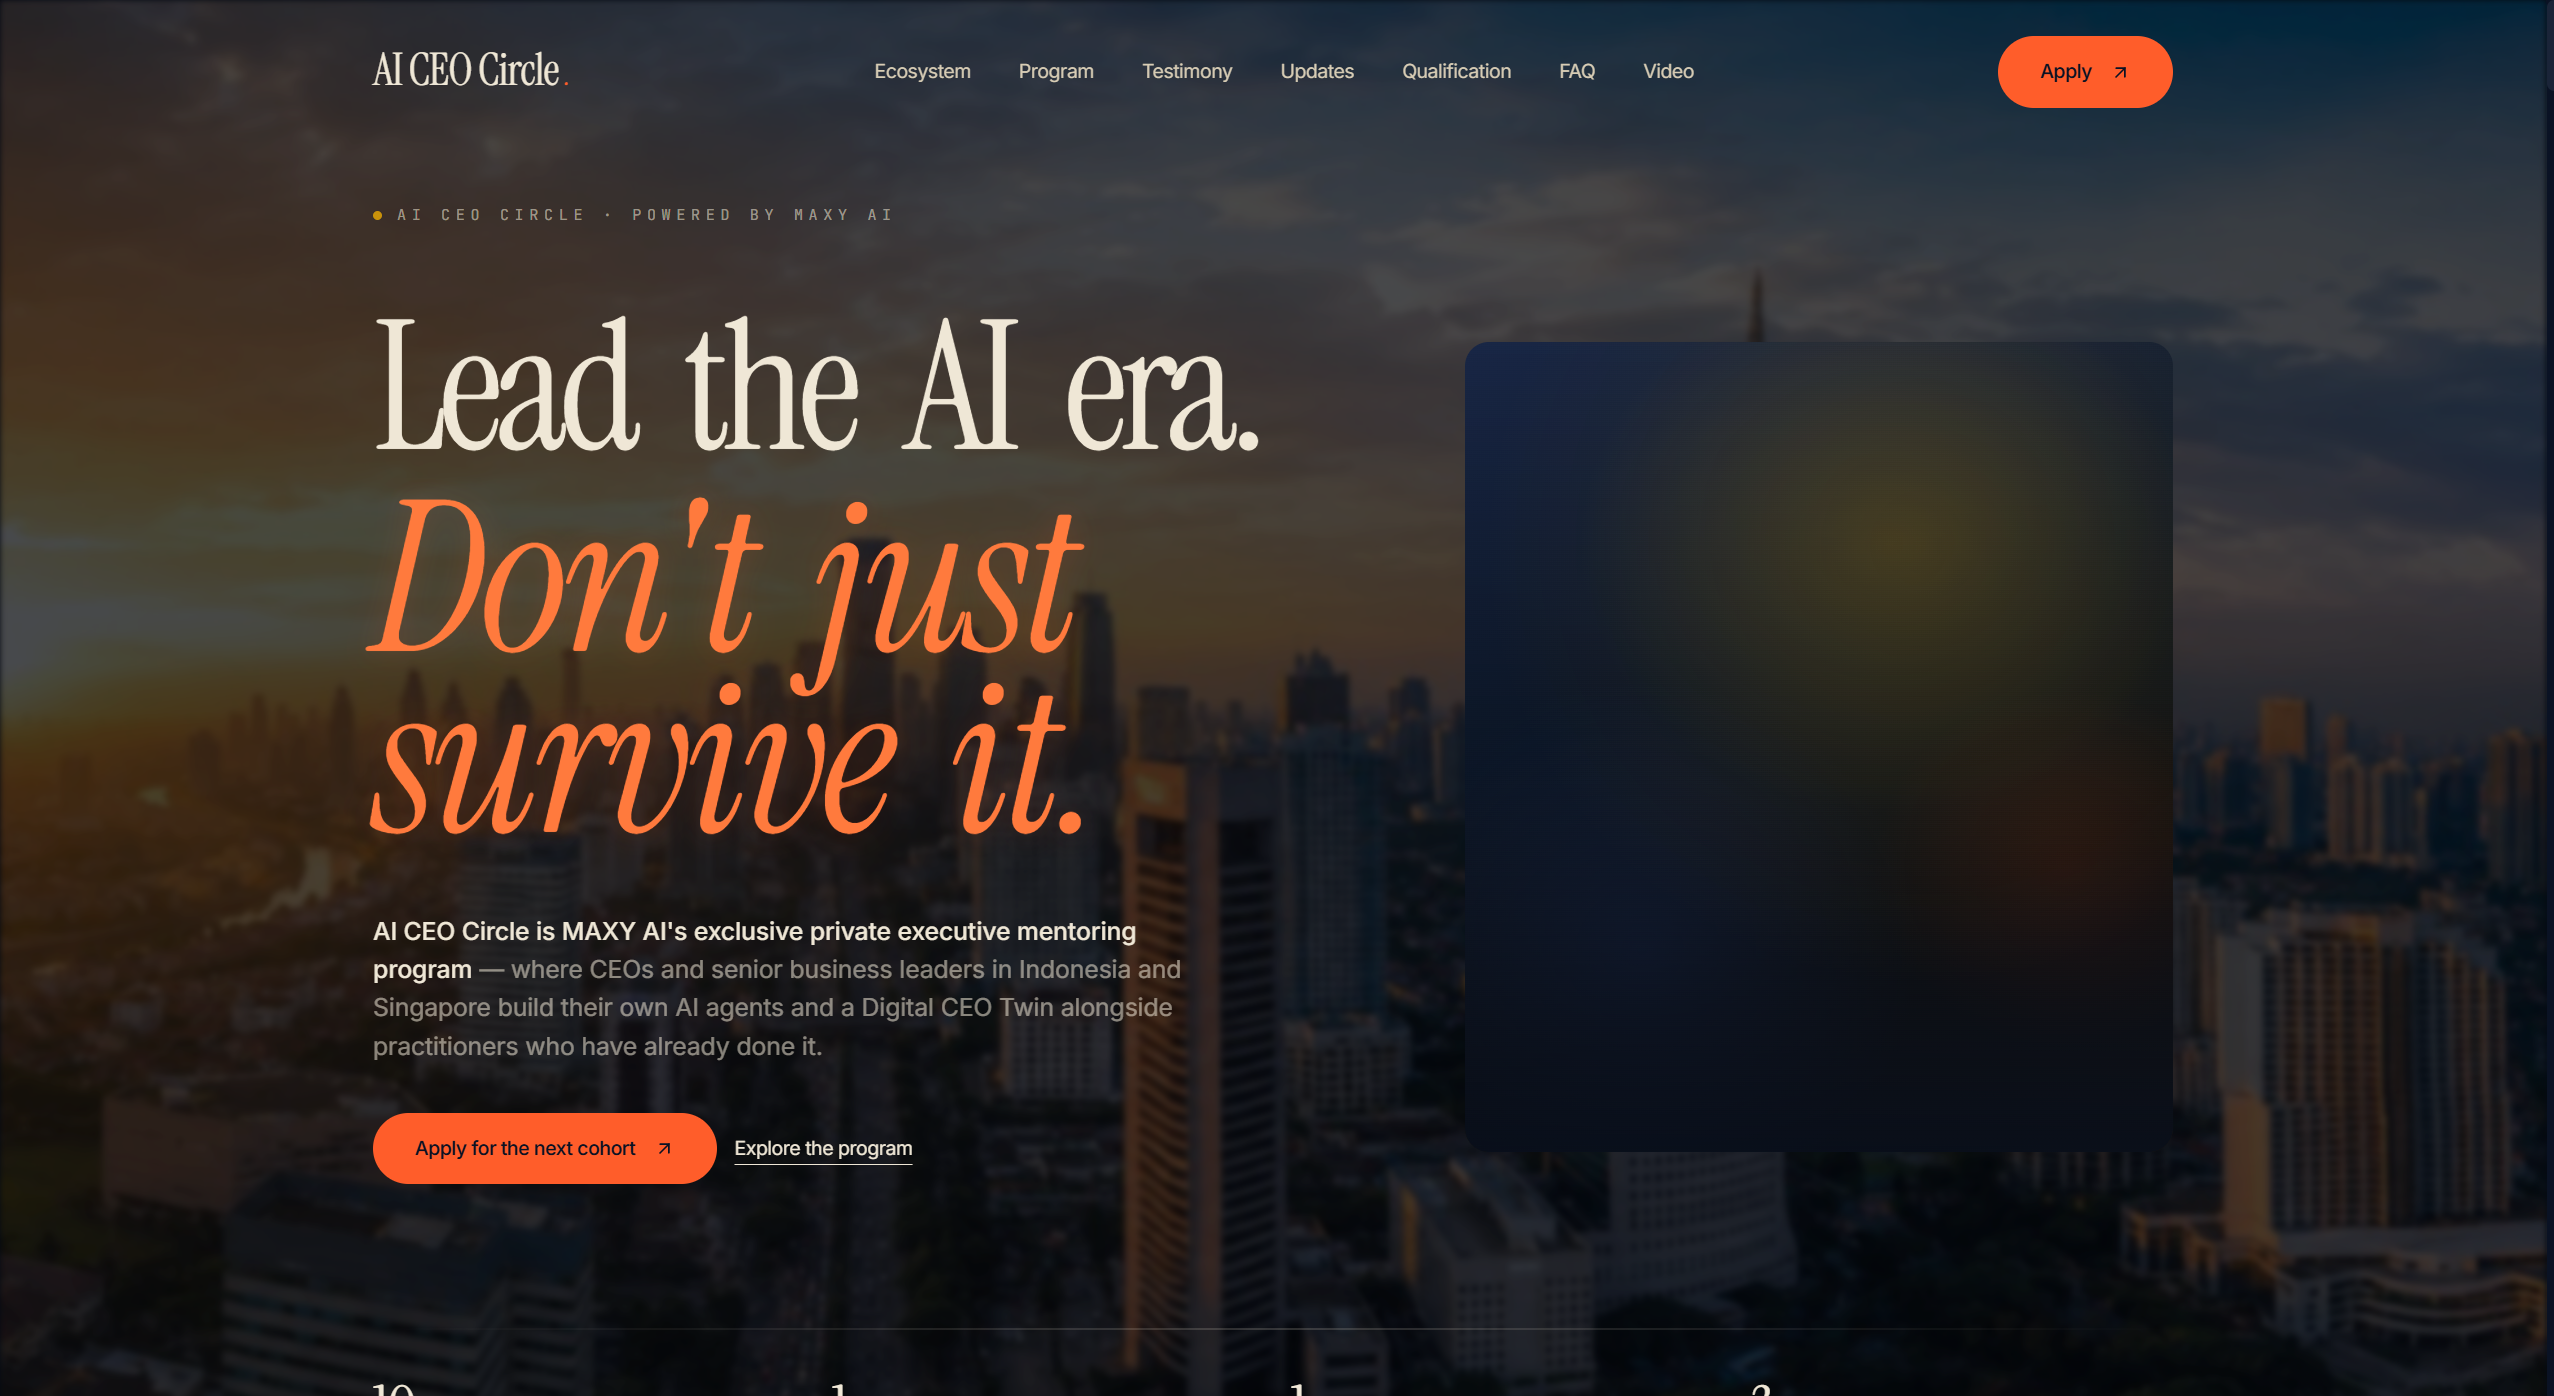
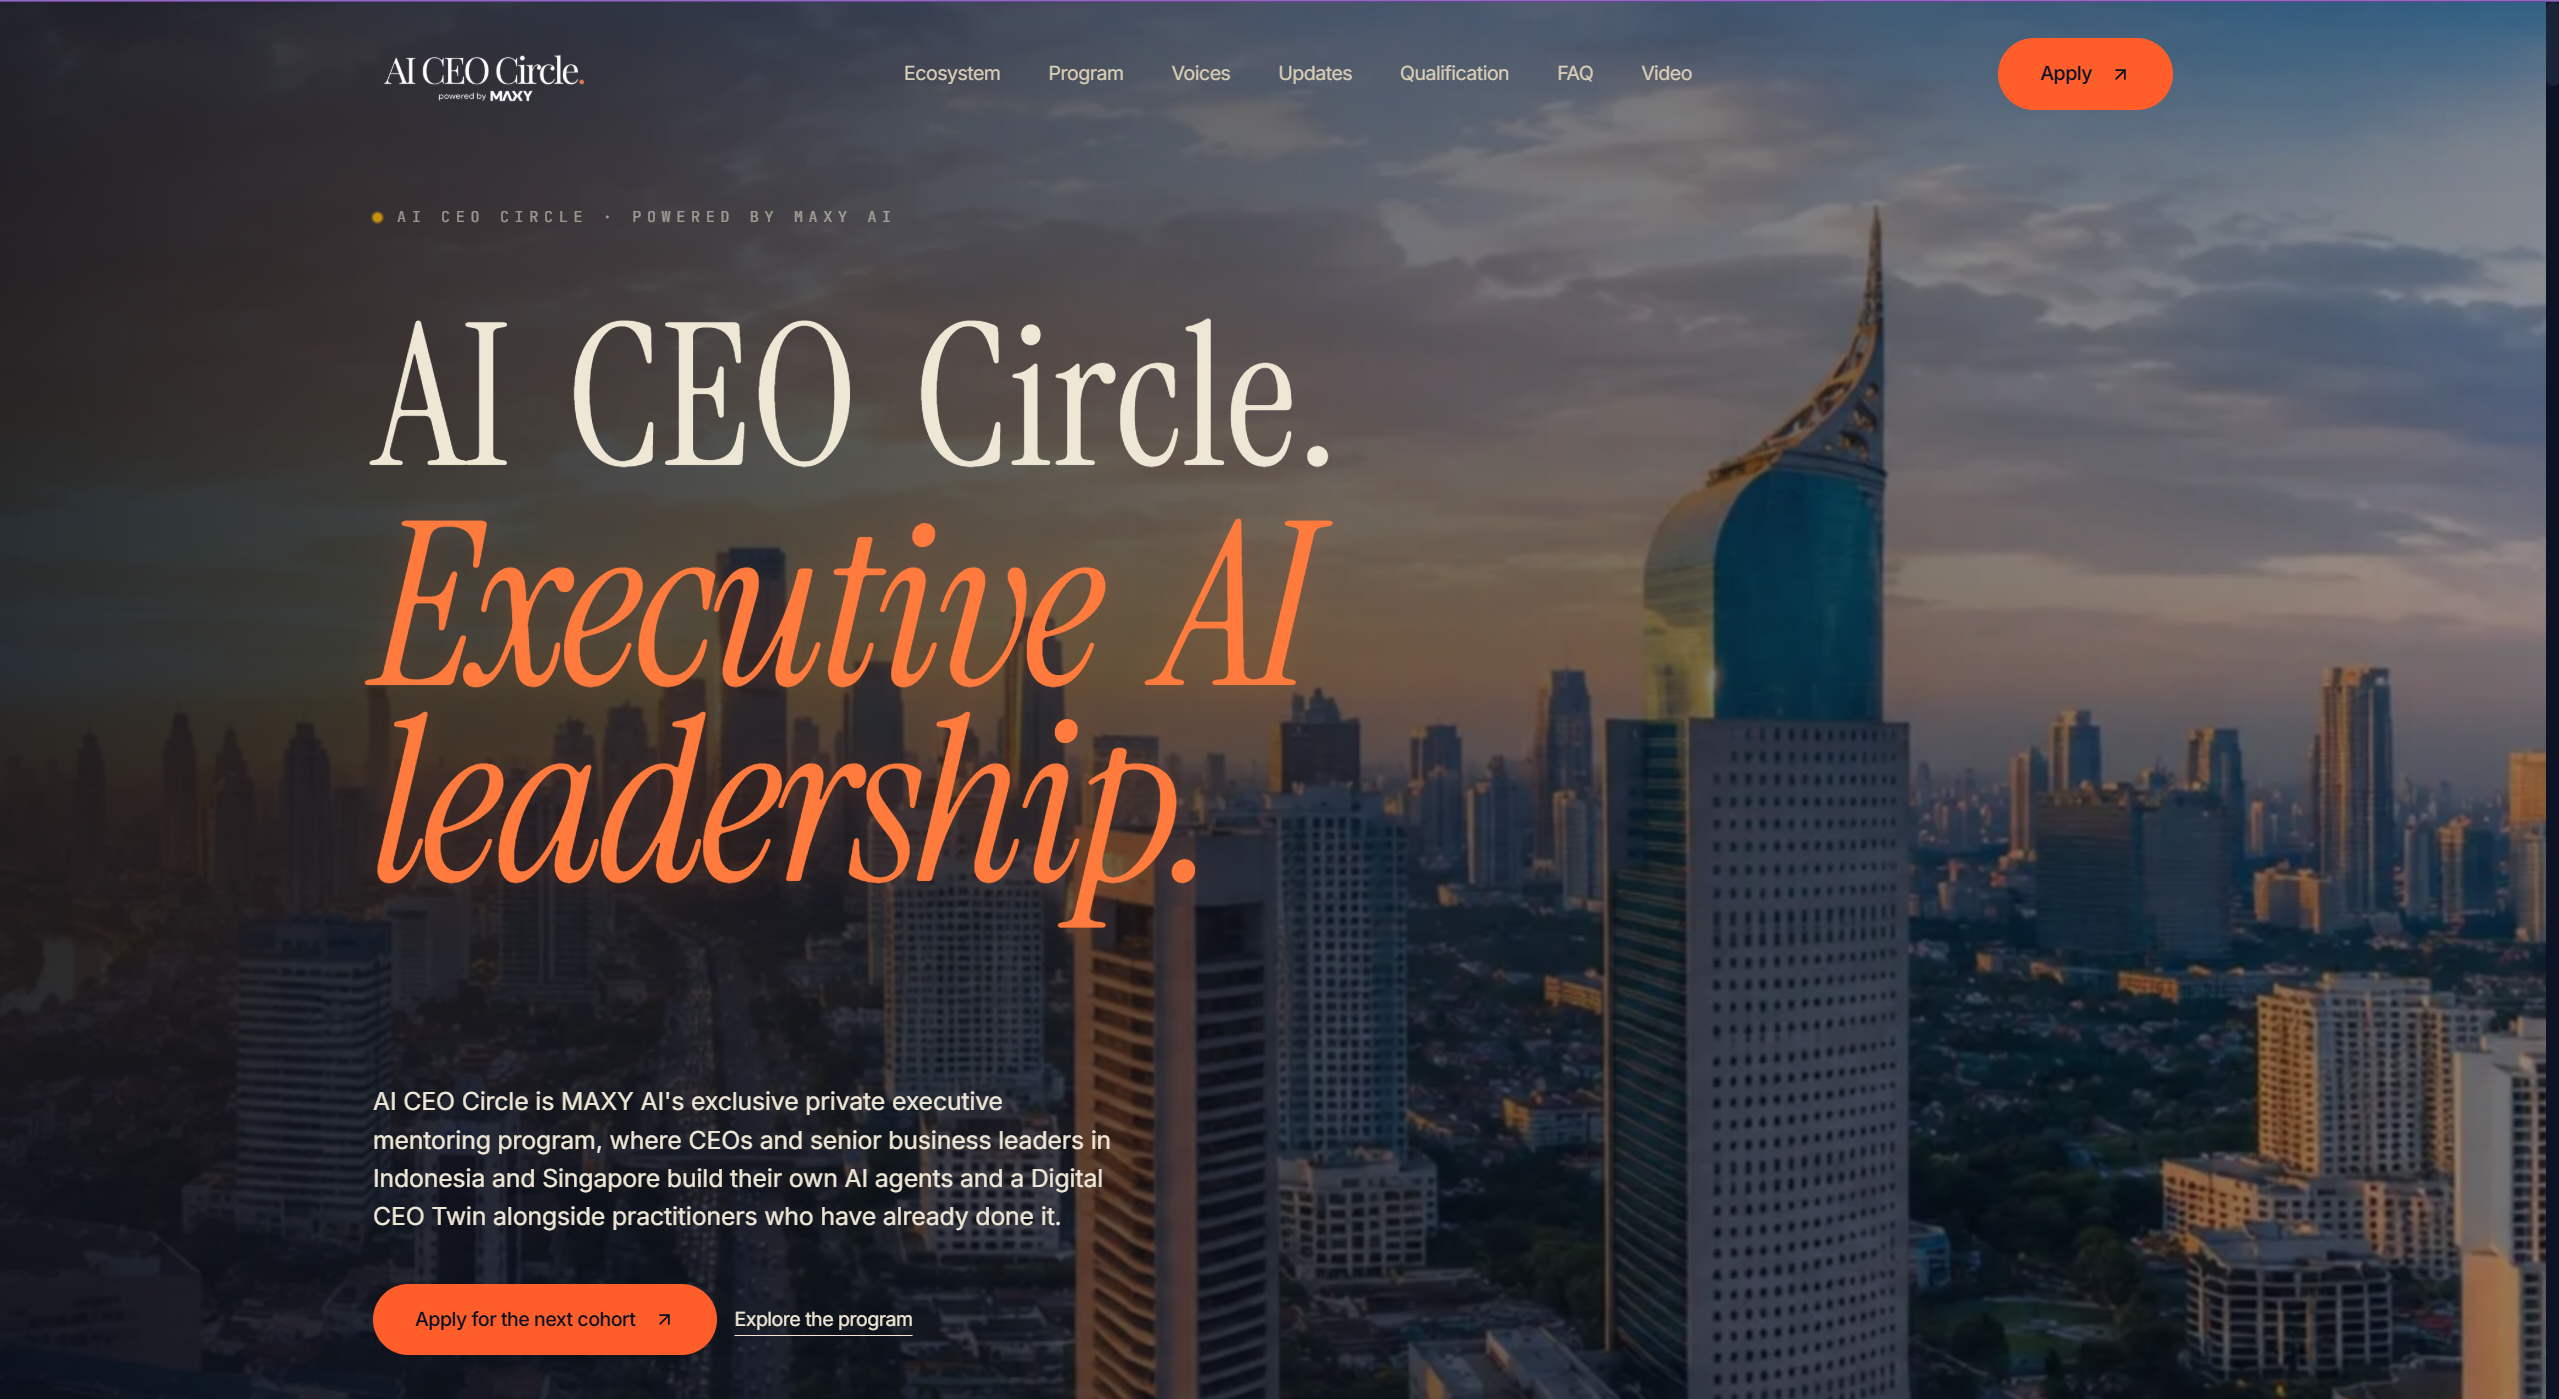
fix: update live URL for AI CEO Circle project and replace project images

diff --git a/data/index.ts b/data/index.ts
@@ -85,7 +85,7 @@ export const projects = [
     img: "/ai-ceo-circle.png",
     iconLists: ["/next.svg", "/javascript.svg", "/ts.svg"],
     githubLink: "https://github.com/damhacker04/landing-page-ai-ceo-circle",
-    liveUrl: "https://landing-page-ai-ceo-circle.vercel.app/",
+    liveUrl: "https://www.aiceocircle.com/",
   },
   {
     id: 3,
